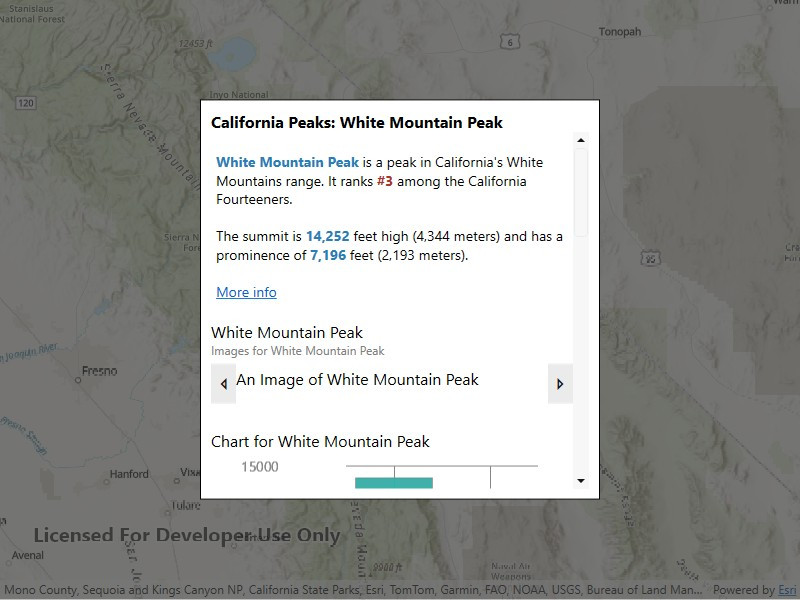
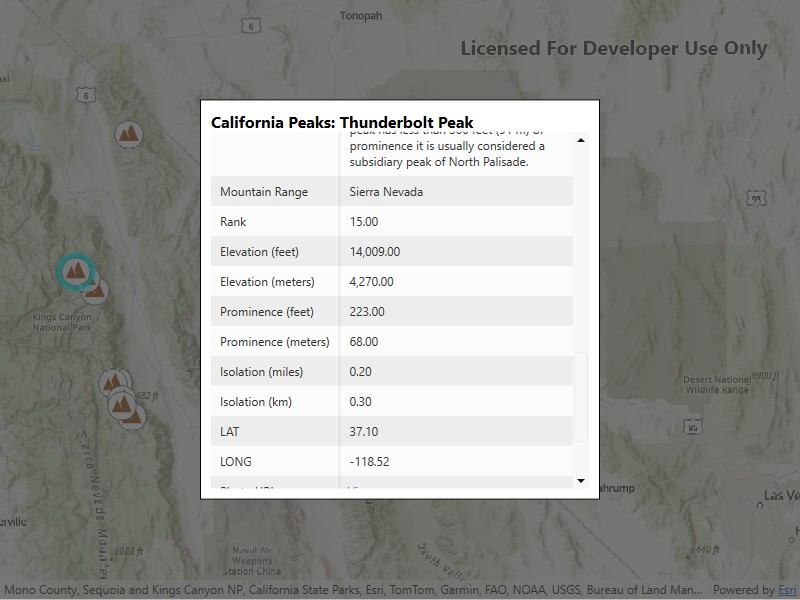
Fix MAUI popup panel layout

diff --git a/src/MAUI/Maui.Samples/Samples/Data/ShowPopup/ShowPopup.xaml b/src/MAUI/Maui.Samples/Samples/Data/ShowPopup/ShowPopup.xaml
@@ -4,51 +4,15 @@
              xmlns:x="http://schemas.microsoft.com/winfx/2009/xaml"
              xmlns:esriTK="clr-namespace:Esri.ArcGISRuntime.Toolkit.Maui;assembly=Esri.ArcGISRuntime.Toolkit.Maui"
              xmlns:esriUI="clr-namespace:Esri.ArcGISRuntime.Maui;assembly=Esri.ArcGISRuntime.Maui">
-    <Grid ColumnDefinitions="*,500"
-          Style="{DynamicResource EsriSampleContainer}">
-        <VisualStateManager.VisualStateGroups>
-            <VisualStateGroup x:Name="WidthStates">
-                <VisualState x:Name="PhoneState">
-                    <VisualState.StateTriggers>
-                        <AdaptiveTrigger MinWindowWidth="0" />
-                    </VisualState.StateTriggers>
-                    <VisualState.Setters>
-                        <Setter TargetName="PopupPanel"
-                                Property="Grid.Column"
-                                Value="0" />
-                        <Setter TargetName="PopupPanel"
-                                Property="Grid.ColumnSpan"
-                                Value="2" />
-                    </VisualState.Setters>
-                </VisualState>
-                <VisualState x:Name="DesktopState">
-                    <VisualState.StateTriggers>
-                        <AdaptiveTrigger MinWindowWidth="800" />
-                    </VisualState.StateTriggers>
-                    <VisualState.Setters>
-                        <Setter TargetName="PopupPanel"
-                                Property="Grid.Column"
-                                Value="1" />
-                        <Setter TargetName="PopupPanel"
-                                Property="Grid.ColumnSpan"
-                                Value="1" />
-                    </VisualState.Setters>
-                </VisualState>
-            </VisualStateGroup>
-        </VisualStateManager.VisualStateGroups>
-
+    <Grid Style="{DynamicResource EsriSampleContainer}">
         <esriUI:MapView x:Name="MyMapView"
-                        Grid.ColumnSpan="2"
                         Style="{DynamicResource EsriSampleGeoView}" />
         <Border x:Name="PopupPanel"
-                Grid.Column="1"
-                Padding="8"
-                Background="{AppThemeBinding Light=White,
-                                             Dark=Black}"
-                IsVisible="False">
+                IsVisible="False"
+                MaximumHeightRequest="500"
+                Style="{DynamicResource EsriSampleControlPanel}">
             <Grid RowDefinitions="*,Auto">
                 <esriTK:PopupViewer x:Name="PopupViewer"
-                                    MinimumWidthRequest="400"
                                     HorizontalOptions="Fill" />
                 <Button Grid.Row="1"
                         HorizontalOptions="Fill"
